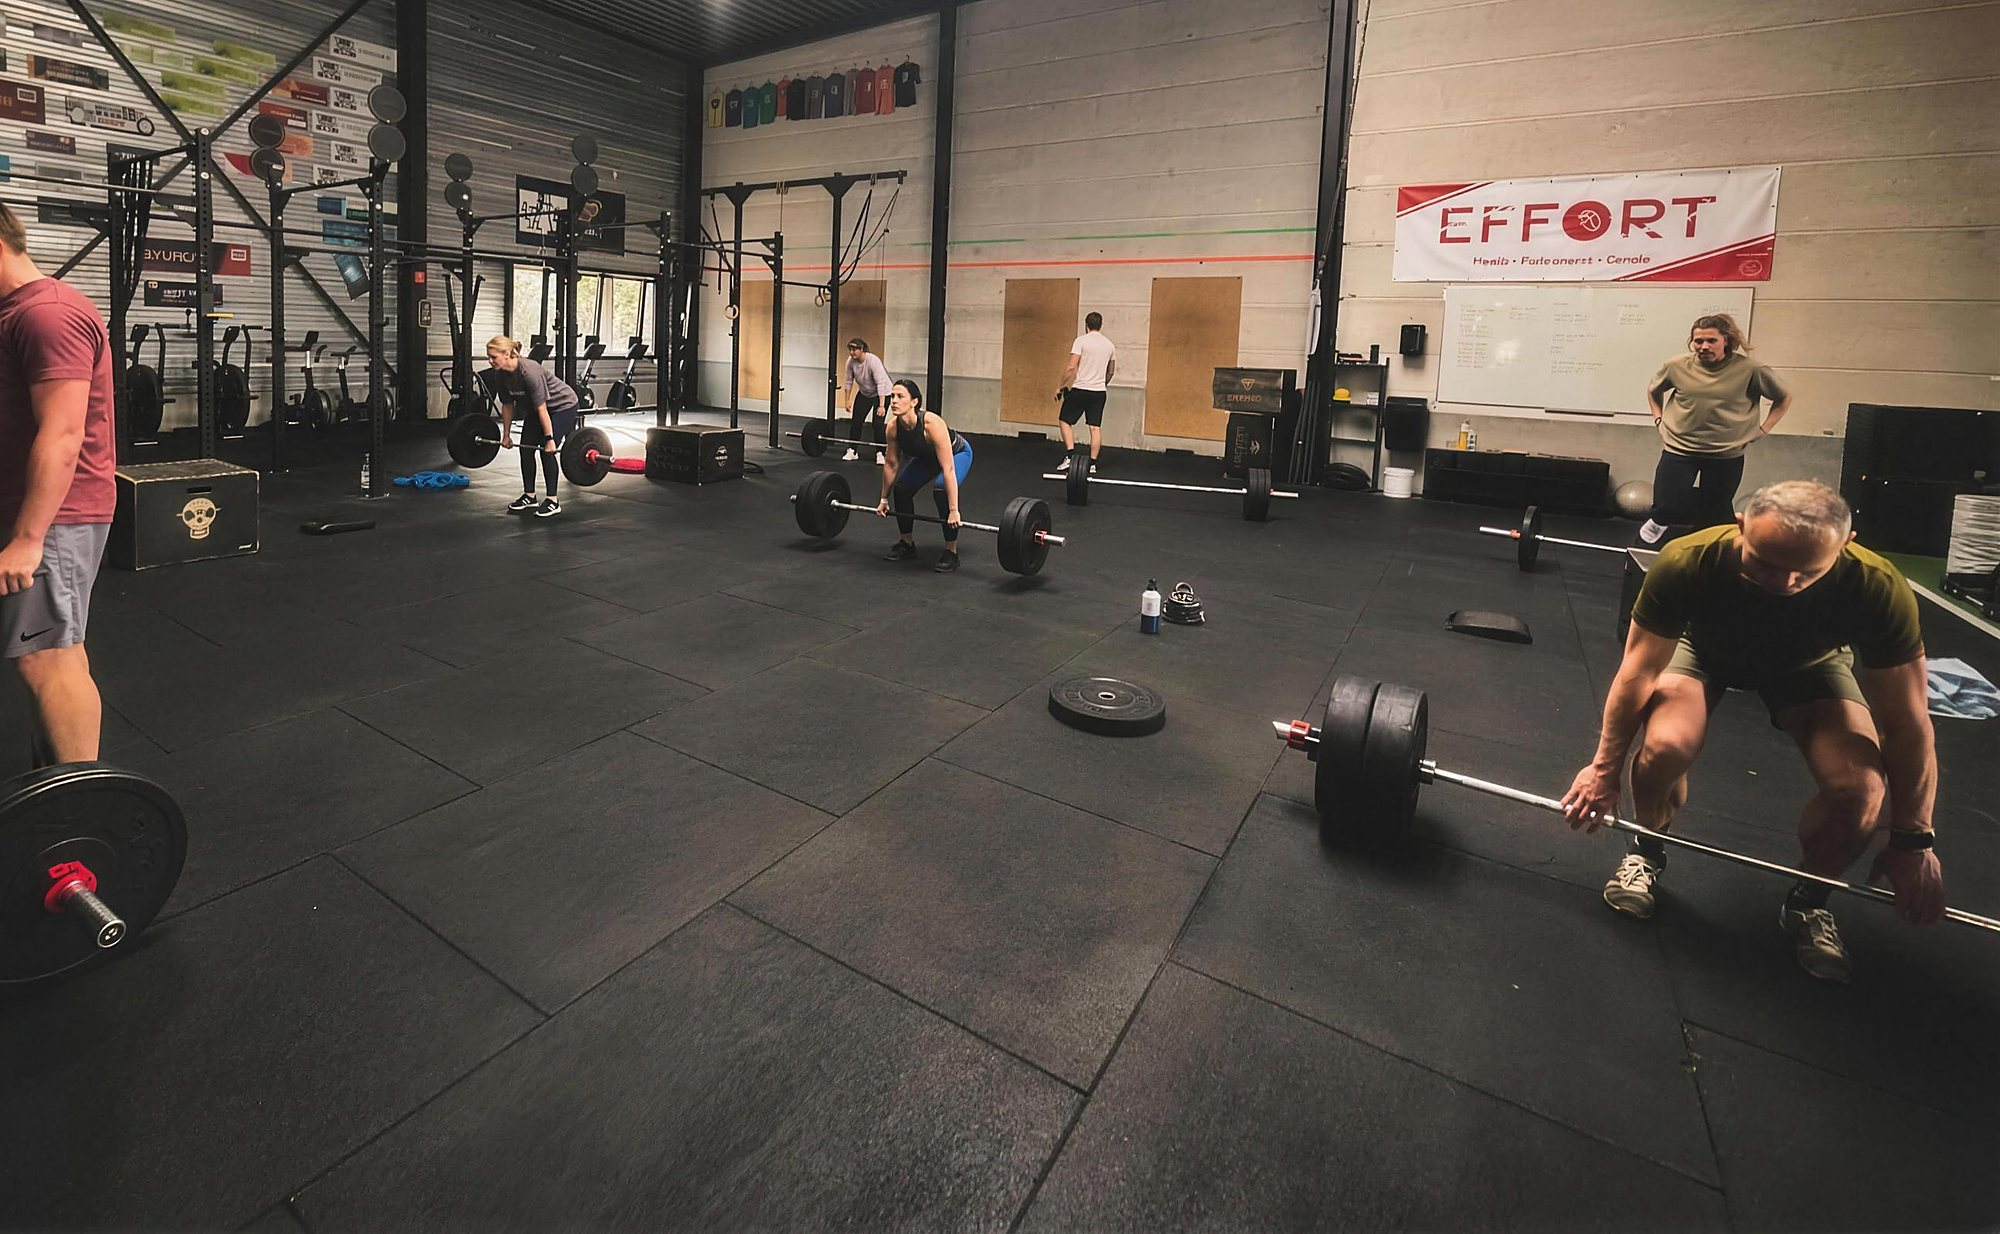
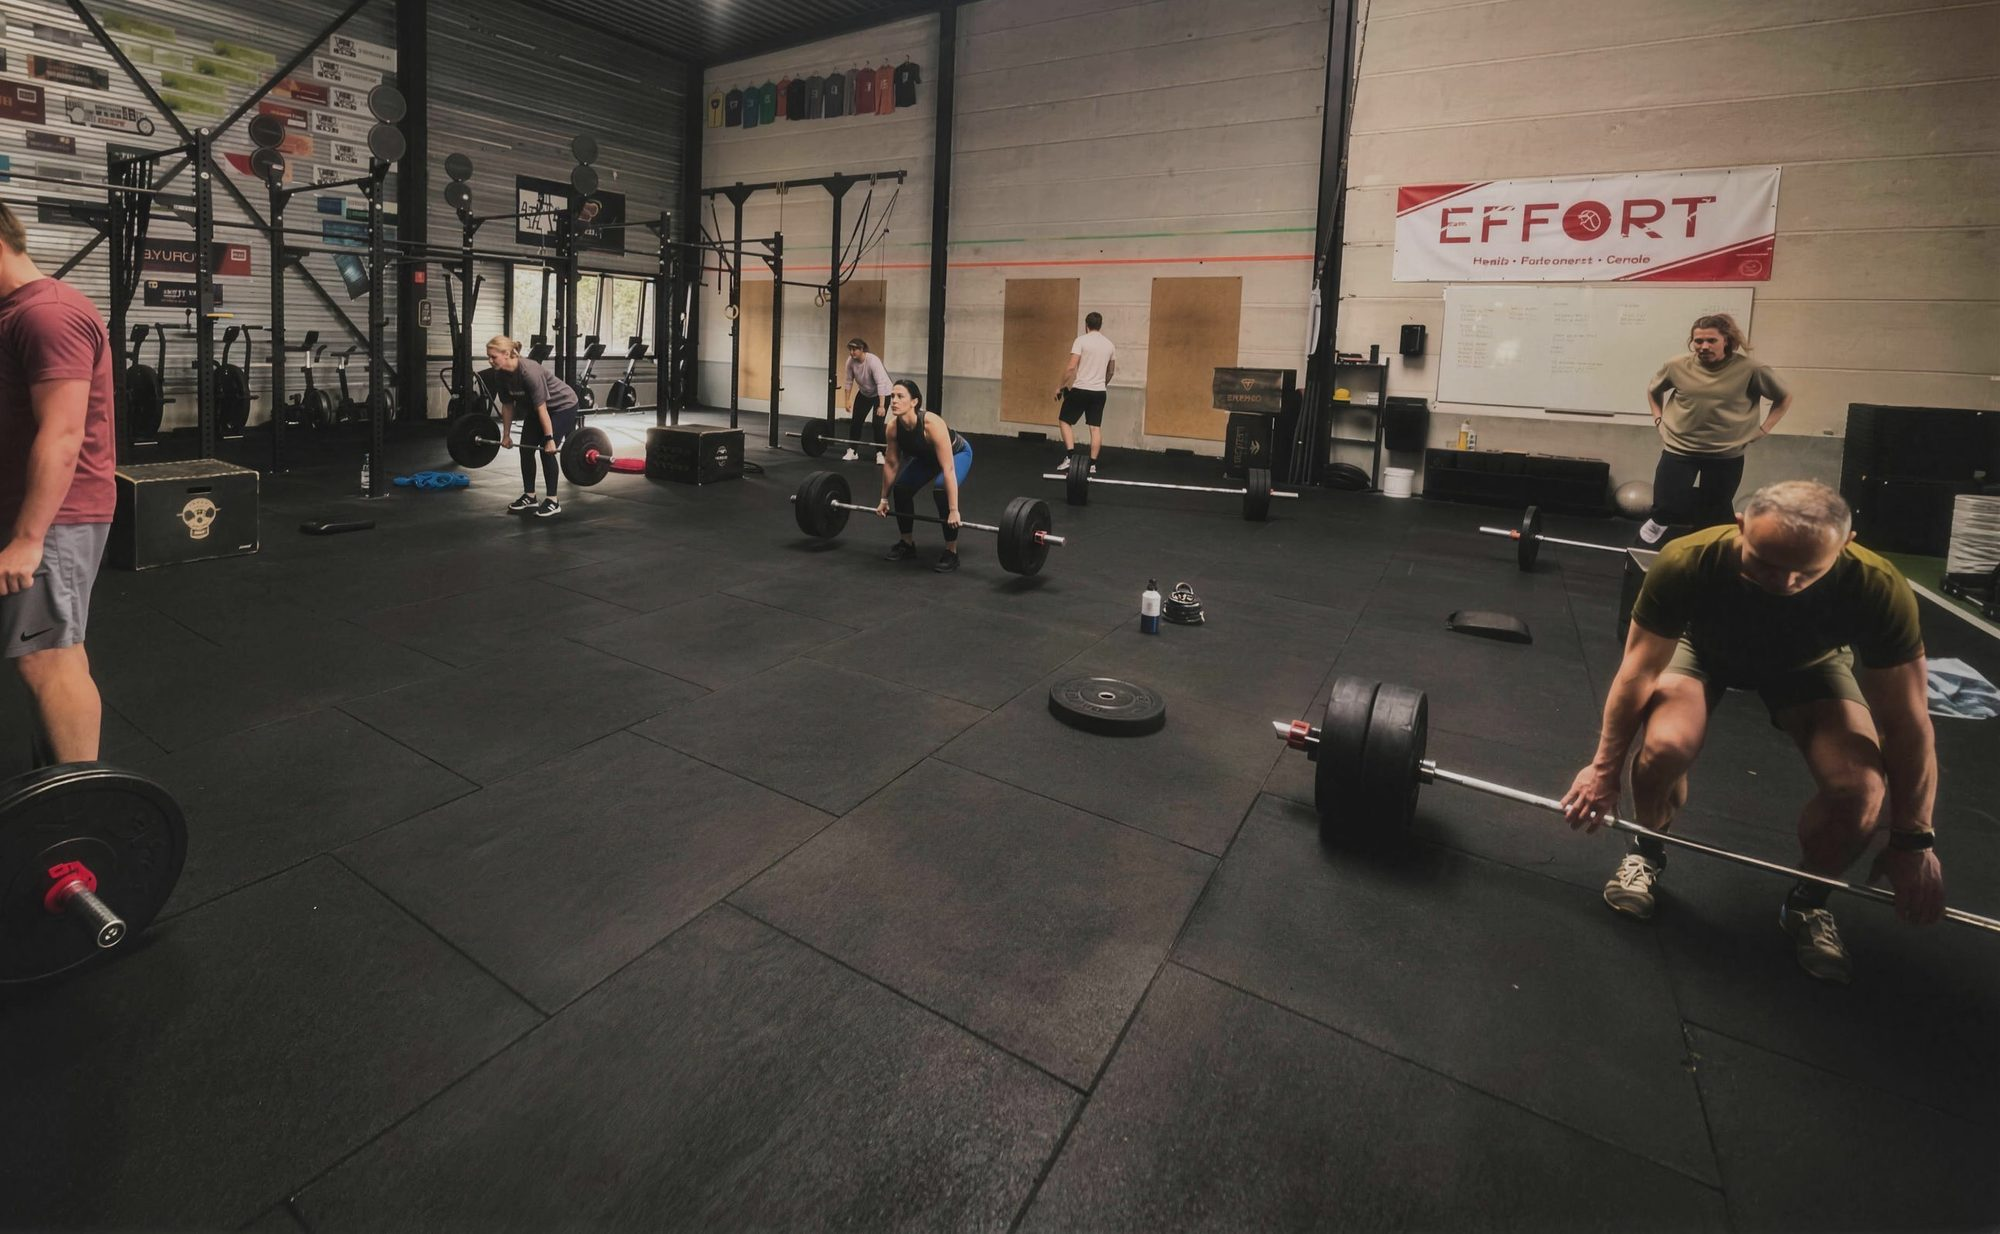
Foto's kalmer en donkerder: te felle upscale-look gecorrigeerd
Opnieuw geexporteerd vanaf de 4K-bronnen met de goedgekeurde donkere grade:
geen unsharp meer (dat gaf de harde HDR-look), zachte highlight-compressie,
10-12% donkerder en rustiger van kleur. Hero's extra getemperd (de
lichtbundels hadden de helderheid +28% getild). Detail blijft 4K. ?v=6.

diff --git a/index.html b/index.html
@@ -151,8 +151,8 @@
     <section class="hero">
       <div class="hero__media">
         <picture>
-          <source media="(min-width: 880px)" srcset="assets/img/hero-desktop.jpg?v=5" />
-          <img src="assets/img/hero-mobile.jpg?v=5" alt="Leden trainen aan het rig bij Effort in Kapellen" fetchpriority="high" />
+          <source media="(min-width: 880px)" srcset="assets/img/hero-desktop.jpg?v=6" />
+          <img src="assets/img/hero-mobile.jpg?v=6" alt="Leden trainen aan het rig bij Effort in Kapellen" fetchpriority="high" />
         </picture>
       </div>
       <div class="hero__inner">
@@ -191,7 +191,7 @@
           </div>
           <div class="media-frame media-frame--wide reveal" data-d="1">
             <!-- Vervang door een échte foto van de box / community -->
-            <img src="assets/img/gym.jpg?v=4" alt="De trainingsvloer van Effort België" loading="lazy" />
+            <img src="assets/img/gym.jpg?v=6" alt="De trainingsvloer van Effort België" loading="lazy" />
             <span class="media-frame__tag">De box · Kapellen</span>
           </div>
         </div>
@@ -215,21 +215,21 @@
         </div>
         <div class="grid grid--3">
           <article class="card offer reveal">
-            <div class="offer__img"><img src="assets/img/class-group.jpg?v=4" alt="Groepsles in volle gang" loading="lazy" /></div>
+            <div class="offer__img"><img src="assets/img/class-group.jpg?v=6" alt="Groepsles in volle gang" loading="lazy" /></div>
             <div class="offer__body">
               <h3>Groeps<span>lessen</span></h3>
               <p>Bewegen, sterker worden en op een gezonde manier grenzen verleggen. Constant gevarieerde, functionele bewegingen onder hoge intensiteit, in groepen van max. 10, individueel aangepast.</p>
             </div>
           </article>
           <article class="card offer reveal" data-d="1">
-            <div class="offer__img"><img src="assets/img/barbell.jpg?v=4" alt="Geladen barbell op de gym vloer" loading="lazy" /></div>
+            <div class="offer__img"><img src="assets/img/barbell.jpg?v=6" alt="Geladen barbell op de gym vloer" loading="lazy" /></div>
             <div class="offer__body">
               <h3>Open <span>Gym</span></h3>
               <p>Liever solo? Train vrij tijdens de open gym uren, met dagelijkse toegang. Met of zonder persoonlijk programma: helemaal jouw personal effort.</p>
             </div>
           </article>
           <article class="card offer reveal" data-d="2">
-            <div class="offer__img"><img src="assets/img/grip.jpg?v=4" alt="Leden aan de pull-up bar bij Effort" loading="lazy" /></div>
+            <div class="offer__img"><img src="assets/img/grip.jpg?v=6" alt="Leden aan de pull-up bar bij Effort" loading="lazy" /></div>
             <div class="offer__body">
               <h3>Personal <span>Training</span></h3>
               <p>1-op-1 begeleiding door onze specialisten. In samenwerking met kinepraktijk <strong>Level up</strong> ook voor revalidatie na blessures.</p>
@@ -267,7 +267,7 @@
     <section class="section">
       <div class="container">
         <div class="cta-band reveal">
-          <div class="cta-band__bg"><img src="assets/img/team.jpg?v=4" alt="" loading="lazy" /></div>
+          <div class="cta-band__bg"><img src="assets/img/team.jpg?v=6" alt="" loading="lazy" /></div>
           <div class="cta-band__inner">
             <p class="eyebrow">It's a team effort</p>
             <h2 class="mt-s">Een plek waar iedereen <span class="text-red">zichzelf</span> kan zijn</h2>
@@ -371,7 +371,7 @@
     <section class="section">
       <div class="container">
         <div class="cta-band reveal">
-          <div class="cta-band__bg"><img src="assets/img/kettlebells.jpg?v=4" alt="" loading="lazy" /></div>
+          <div class="cta-band__bg"><img src="assets/img/kettlebells.jpg?v=6" alt="" loading="lazy" /></div>
           <div class="cta-band__inner">
             <p class="eyebrow">Get started</p>
             <h2 class="mt-s">Ben jij er <span class="text-red">klaar</span> voor?</h2>

diff --git a/aanbod.html b/aanbod.html
@@ -96,7 +96,7 @@
 
   <main>
     <section class="page-hero">
-      <div class="page-hero__bg"><img src="assets/img/class-group.jpg?v=4" alt="" /></div>
+      <div class="page-hero__bg"><img src="assets/img/class-group.jpg?v=6" alt="" /></div>
       <div class="container">
         <p class="eyebrow">Aanbod</p>
         <h1>Train op <br /><span class="text-red">jouw</span> manier</h1>
@@ -109,7 +109,7 @@
       <div class="container">
         <div class="split">
           <div class="media-frame media-frame--tall reveal">
-            <img src="assets/img/class-group.jpg?v=4" alt="Groepsles in volle gang" loading="lazy" />
+            <img src="assets/img/class-group.jpg?v=6" alt="Groepsles in volle gang" loading="lazy" />
             <span class="media-frame__tag">Groepslessen · max. 10</span>
           </div>
           <div class="reveal" data-d="1">
@@ -137,7 +137,7 @@
             <a class="link-arrow mt-m" href="prijzen.html">Bekijk de Open Gym formule <span>→</span></a>
           </div>
           <div class="media-frame media-frame--tall reveal" data-d="1">
-            <img src="assets/img/barbell.jpg?v=4" alt="Geladen barbell in de box" loading="lazy" />
+            <img src="assets/img/barbell.jpg?v=6" alt="Geladen barbell in de box" loading="lazy" />
             <span class="media-frame__tag">Open Gym · dagelijks</span>
           </div>
         </div>
@@ -149,7 +149,7 @@
       <div class="container">
         <div class="split">
           <div class="media-frame media-frame--tall reveal">
-            <img src="assets/img/grip.jpg?v=4" alt="Leden aan de pull-up bar bij Effort" loading="lazy" />
+            <img src="assets/img/grip.jpg?v=6" alt="Leden aan de pull-up bar bij Effort" loading="lazy" />
             <span class="media-frame__tag">Personal Training · 1-op-1</span>
           </div>
           <div class="reveal" data-d="1">
@@ -166,7 +166,7 @@
 
     <!-- SOORTEN LESSEN -->
     <section class="section" id="lestypes" style="position:relative; overflow:hidden; background:var(--ink-1); border-top:1px solid var(--line);">
-      <div class="page-hero__bg" style="opacity:.12; z-index:0;"><img src="assets/img/chalk.jpg?v=4" alt="" loading="lazy" /></div>
+      <div class="page-hero__bg" style="opacity:.12; z-index:0;"><img src="assets/img/chalk.jpg?v=6" alt="" loading="lazy" /></div>
       <div class="container" style="position:relative; z-index:2;">
         <div class="section-head reveal">
           <p class="eyebrow">Soorten lessen</p>
@@ -207,7 +207,7 @@
     <section class="section section--tight">
       <div class="container">
         <div class="cta-band reveal">
-          <div class="cta-band__bg"><img src="assets/img/kettlebells.jpg?v=4" alt="" loading="lazy" /></div>
+          <div class="cta-band__bg"><img src="assets/img/kettlebells.jpg?v=6" alt="" loading="lazy" /></div>
           <div class="cta-band__inner">
             <p class="eyebrow">Get started</p>
             <h2 class="mt-s">Probeer het gewoon eens</h2>

diff --git a/crossfit-wuustwezel.html b/crossfit-wuustwezel.html
@@ -96,7 +96,7 @@
 
   <main>
     <section class="page-hero">
-      <div class="page-hero__bg"><img src="assets/img/gym.jpg?v=4" alt="" /></div>
+      <div class="page-hero__bg"><img src="assets/img/gym.jpg?v=6" alt="" /></div>
       <div class="container">
         <p class="eyebrow">Regio · Wuustwezel</p>
         <h1>CrossFit <br /><span class="text-red">vlakbij Wuustwezel</span></h1>
@@ -113,7 +113,7 @@
       <div class="container">
         <div class="split">
           <div class="media-frame media-frame--tall reveal">
-            <img src="assets/img/class-group.jpg?v=4" alt="Groepsles bij Effort, de CrossFit-box op de drempel van Wuustwezel" loading="lazy" />
+            <img src="assets/img/class-group.jpg?v=6" alt="Groepsles bij Effort, de CrossFit-box op de drempel van Wuustwezel" loading="lazy" />
             <span class="media-frame__tag">Effort · Gooreind</span>
           </div>
           <div class="reveal" data-d="1">
@@ -139,7 +139,7 @@
             <a class="link-arrow mt-m" href="get-started.html">Zo verloopt je eerste les <span>→</span></a>
           </div>
           <div class="media-frame media-frame--tall reveal" data-d="1">
-            <img src="assets/img/grip.jpg?v=4" alt="Leden aan de pull-up bar bij Effort" loading="lazy" />
+            <img src="assets/img/grip.jpg?v=6" alt="Leden aan de pull-up bar bij Effort" loading="lazy" />
             <span class="media-frame__tag">Op jouw niveau</span>
           </div>
         </div>

diff --git a/crossfit-kalmthout.html b/crossfit-kalmthout.html
@@ -96,7 +96,7 @@
 
   <main>
     <section class="page-hero">
-      <div class="page-hero__bg"><img src="assets/img/gym.jpg?v=4" alt="" /></div>
+      <div class="page-hero__bg"><img src="assets/img/gym.jpg?v=6" alt="" /></div>
       <div class="container">
         <p class="eyebrow">Regio · Kalmthout</p>
         <h1>CrossFit <br /><span class="text-red">vlakbij Kalmthout</span></h1>
@@ -113,7 +113,7 @@
       <div class="container">
         <div class="split">
           <div class="media-frame media-frame--tall reveal">
-            <img src="assets/img/class-group.jpg?v=4" alt="Groepsles bij Effort, de CrossFit-box vlakbij Kalmthout" loading="lazy" />
+            <img src="assets/img/class-group.jpg?v=6" alt="Groepsles bij Effort, de CrossFit-box vlakbij Kalmthout" loading="lazy" />
             <span class="media-frame__tag">Effort · Gooreind</span>
           </div>
           <div class="reveal" data-d="1">
@@ -139,7 +139,7 @@
             <a class="link-arrow mt-m" href="get-started.html">Zo verloopt je eerste les <span>→</span></a>
           </div>
           <div class="media-frame media-frame--tall reveal" data-d="1">
-            <img src="assets/img/grip.jpg?v=4" alt="Leden aan de pull-up bar bij Effort" loading="lazy" />
+            <img src="assets/img/grip.jpg?v=6" alt="Leden aan de pull-up bar bij Effort" loading="lazy" />
             <span class="media-frame__tag">Op jouw niveau</span>
           </div>
         </div>

diff --git a/crossfit-brasschaat.html b/crossfit-brasschaat.html
@@ -96,7 +96,7 @@
 
   <main>
     <section class="page-hero">
-      <div class="page-hero__bg"><img src="assets/img/gym.jpg?v=4" alt="" /></div>
+      <div class="page-hero__bg"><img src="assets/img/gym.jpg?v=6" alt="" /></div>
       <div class="container">
         <p class="eyebrow">Regio · Brasschaat</p>
         <h1>CrossFit <br /><span class="text-red">voor Brasschaat</span></h1>
@@ -113,7 +113,7 @@
       <div class="container">
         <div class="split">
           <div class="media-frame media-frame--tall reveal">
-            <img src="assets/img/class-group.jpg?v=4" alt="Groepsles bij Effort, de CrossFit-box voor Brasschaat" loading="lazy" />
+            <img src="assets/img/class-group.jpg?v=6" alt="Groepsles bij Effort, de CrossFit-box voor Brasschaat" loading="lazy" />
             <span class="media-frame__tag">Effort · Gooreind</span>
           </div>
           <div class="reveal" data-d="1">
@@ -139,7 +139,7 @@
             <a class="link-arrow mt-m" href="get-started.html">Zo verloopt je eerste les <span>→</span></a>
           </div>
           <div class="media-frame media-frame--tall reveal" data-d="1">
-            <img src="assets/img/grip.jpg?v=4" alt="Leden aan de pull-up bar bij Effort" loading="lazy" />
+            <img src="assets/img/grip.jpg?v=6" alt="Leden aan de pull-up bar bij Effort" loading="lazy" />
             <span class="media-frame__tag">Op jouw niveau</span>
           </div>
         </div>

diff --git a/prijzen.html b/prijzen.html
@@ -102,7 +102,7 @@
 
   <main>
     <section class="page-hero">
-      <div class="page-hero__bg"><img src="assets/img/chalk.jpg?v=4" alt="" /></div>
+      <div class="page-hero__bg"><img src="assets/img/chalk.jpg?v=6" alt="" /></div>
       <div class="container">
         <p class="eyebrow">Prijzen</p>
         <h1>Kies jouw <br /><span class="text-red">effort</span></h1>
@@ -184,7 +184,7 @@
     <section class="section section--tight">
       <div class="container">
         <div class="cta-band reveal">
-          <div class="cta-band__bg"><img src="assets/img/barbell.jpg?v=4" alt="" loading="lazy" /></div>
+          <div class="cta-band__bg"><img src="assets/img/barbell.jpg?v=6" alt="" loading="lazy" /></div>
           <div class="cta-band__inner">
             <p class="eyebrow">Get started</p>
             <h2 class="mt-s">Klaar om te <span class="text-red">starten</span>?</h2>

diff --git a/welkom.html b/welkom.html
@@ -65,7 +65,7 @@
 
   <main>
     <section class="page-hero">
-      <div class="page-hero__bg"><img src="assets/img/class-group.jpg?v=4" alt="" /></div>
+      <div class="page-hero__bg"><img src="assets/img/class-group.jpg?v=6" alt="" /></div>
       <div class="container">
         <p class="eyebrow">Welkom, je bent uitgenodigd</p>
         <h1>Je kreeg een <span class="text-red">gratis les</span> cadeau.</h1>
@@ -115,7 +115,7 @@
       <div class="container">
         <div class="split">
           <div class="media-frame media-frame--tall reveal">
-            <img src="assets/img/gym.jpg?v=4" alt="Trainen bij Effort in Kapellen" loading="lazy" />
+            <img src="assets/img/gym.jpg?v=6" alt="Trainen bij Effort in Kapellen" loading="lazy" />
             <span class="media-frame__tag">Iedereen begint ooit</span>
           </div>
           <div class="reveal" data-d="1">

diff --git a/get-started.html b/get-started.html
@@ -108,7 +108,7 @@
 
   <main>
     <section class="page-hero">
-      <div class="page-hero__bg"><img src="assets/img/kit.jpg?v=4" alt="" /></div>
+      <div class="page-hero__bg"><img src="assets/img/kit.jpg?v=6" alt="" /></div>
       <div class="container">
         <p class="eyebrow">Get started</p>
         <h1>Ben jij er <br /><span class="text-red">klaar</span> voor?</h1>
@@ -168,7 +168,7 @@
       <div class="container">
         <div class="split">
           <div class="media-frame media-frame--tall reveal">
-            <img src="assets/img/kit.jpg?v=4" alt="Samen trainen tijdens een les bij Effort" loading="lazy" />
+            <img src="assets/img/kit.jpg?v=6" alt="Samen trainen tijdens een les bij Effort" loading="lazy" />
             <span class="media-frame__tag">Klaar voor de start</span>
           </div>
           <div class="reveal" data-d="1">

diff --git a/team.html b/team.html
@@ -96,7 +96,7 @@
 
   <main>
     <section class="page-hero">
-      <div class="page-hero__bg"><img src="assets/img/team.jpg?v=4" alt="" /></div>
+      <div class="page-hero__bg"><img src="assets/img/team.jpg?v=6" alt="" /></div>
       <div class="container">
         <p class="eyebrow">Het team</p>
         <h1>Coaches met <br /><span class="text-red">karakter</span></h1>
@@ -201,7 +201,7 @@
     <section class="section section--tight">
       <div class="container">
         <div class="cta-band reveal">
-          <div class="cta-band__bg"><img src="assets/img/class-group.jpg?v=4" alt="" loading="lazy" /></div>
+          <div class="cta-band__bg"><img src="assets/img/class-group.jpg?v=6" alt="" loading="lazy" /></div>
           <div class="cta-band__inner">
             <p class="eyebrow">Get started</p>
             <h2 class="mt-s">Train mee met ons team</h2>
